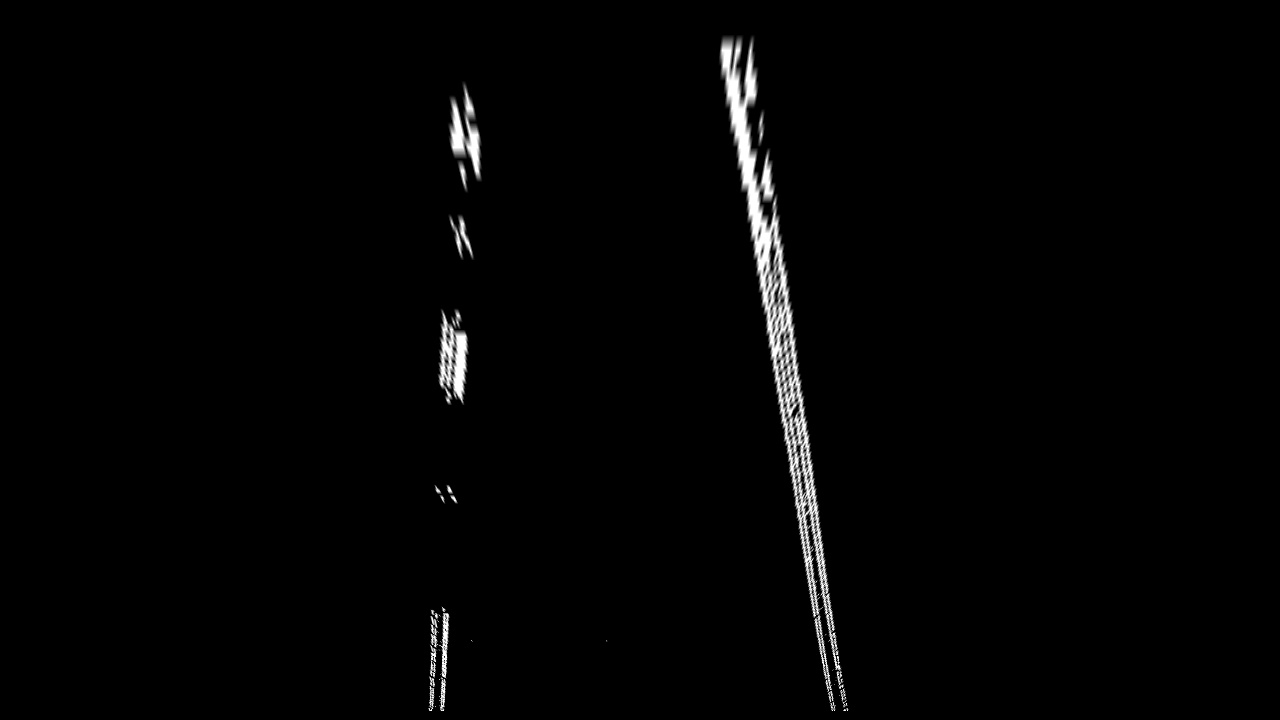
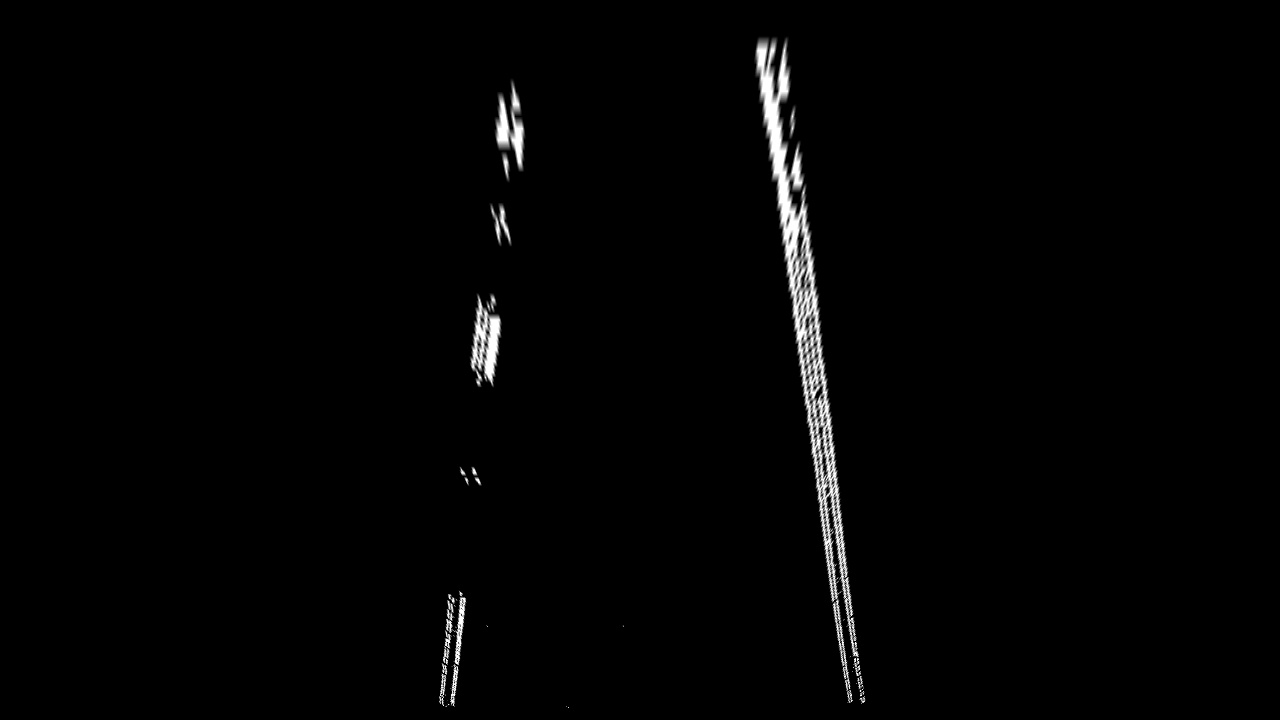
centered transformation area and tuned area dimensions and px/m coefficients

diff --git a/lanefinder/transform.py b/lanefinder/transform.py
@@ -9,16 +9,18 @@ import utils
 
 log = logging.getLogger("lanefinder.transform")
 
-
-WARP_SRC_PTS = [(570, 450),
-                (740, 450),
-                (1110, 670),
-                (220, 670)]
-WARP_DST_PTS = [(400, 50),
-                (1280 - 400, 50),
-                (1280 - 400, 720-10),
-                (400, 720-10)]
-YM_PER_PX = 3 / 98
+_src_top_mar = 550
+_scr_bottom_mar = 170
+_dst_hor_mar = 400
+WARP_SRC_PTS = [(_src_top_mar, 450),
+                (1280 - _src_top_mar, 450),
+                (1280 - _scr_bottom_mar, 690),
+                (_scr_bottom_mar, 690)]
+WARP_DST_PTS = [(_dst_hor_mar, 50),
+                (1280 - _dst_hor_mar, 50),
+                (1280 - _dst_hor_mar, 720-10),
+                (_dst_hor_mar, 720-10)]
+YM_PER_PX = 3 / 115
 XM_PER_PX = 3.7 / 400
 
 def grad_thresholding(img, thresh_abs_x=None, thresh_abs_y=None, thresh_mag=None, thresh_dir=None, kernel_size=3):
